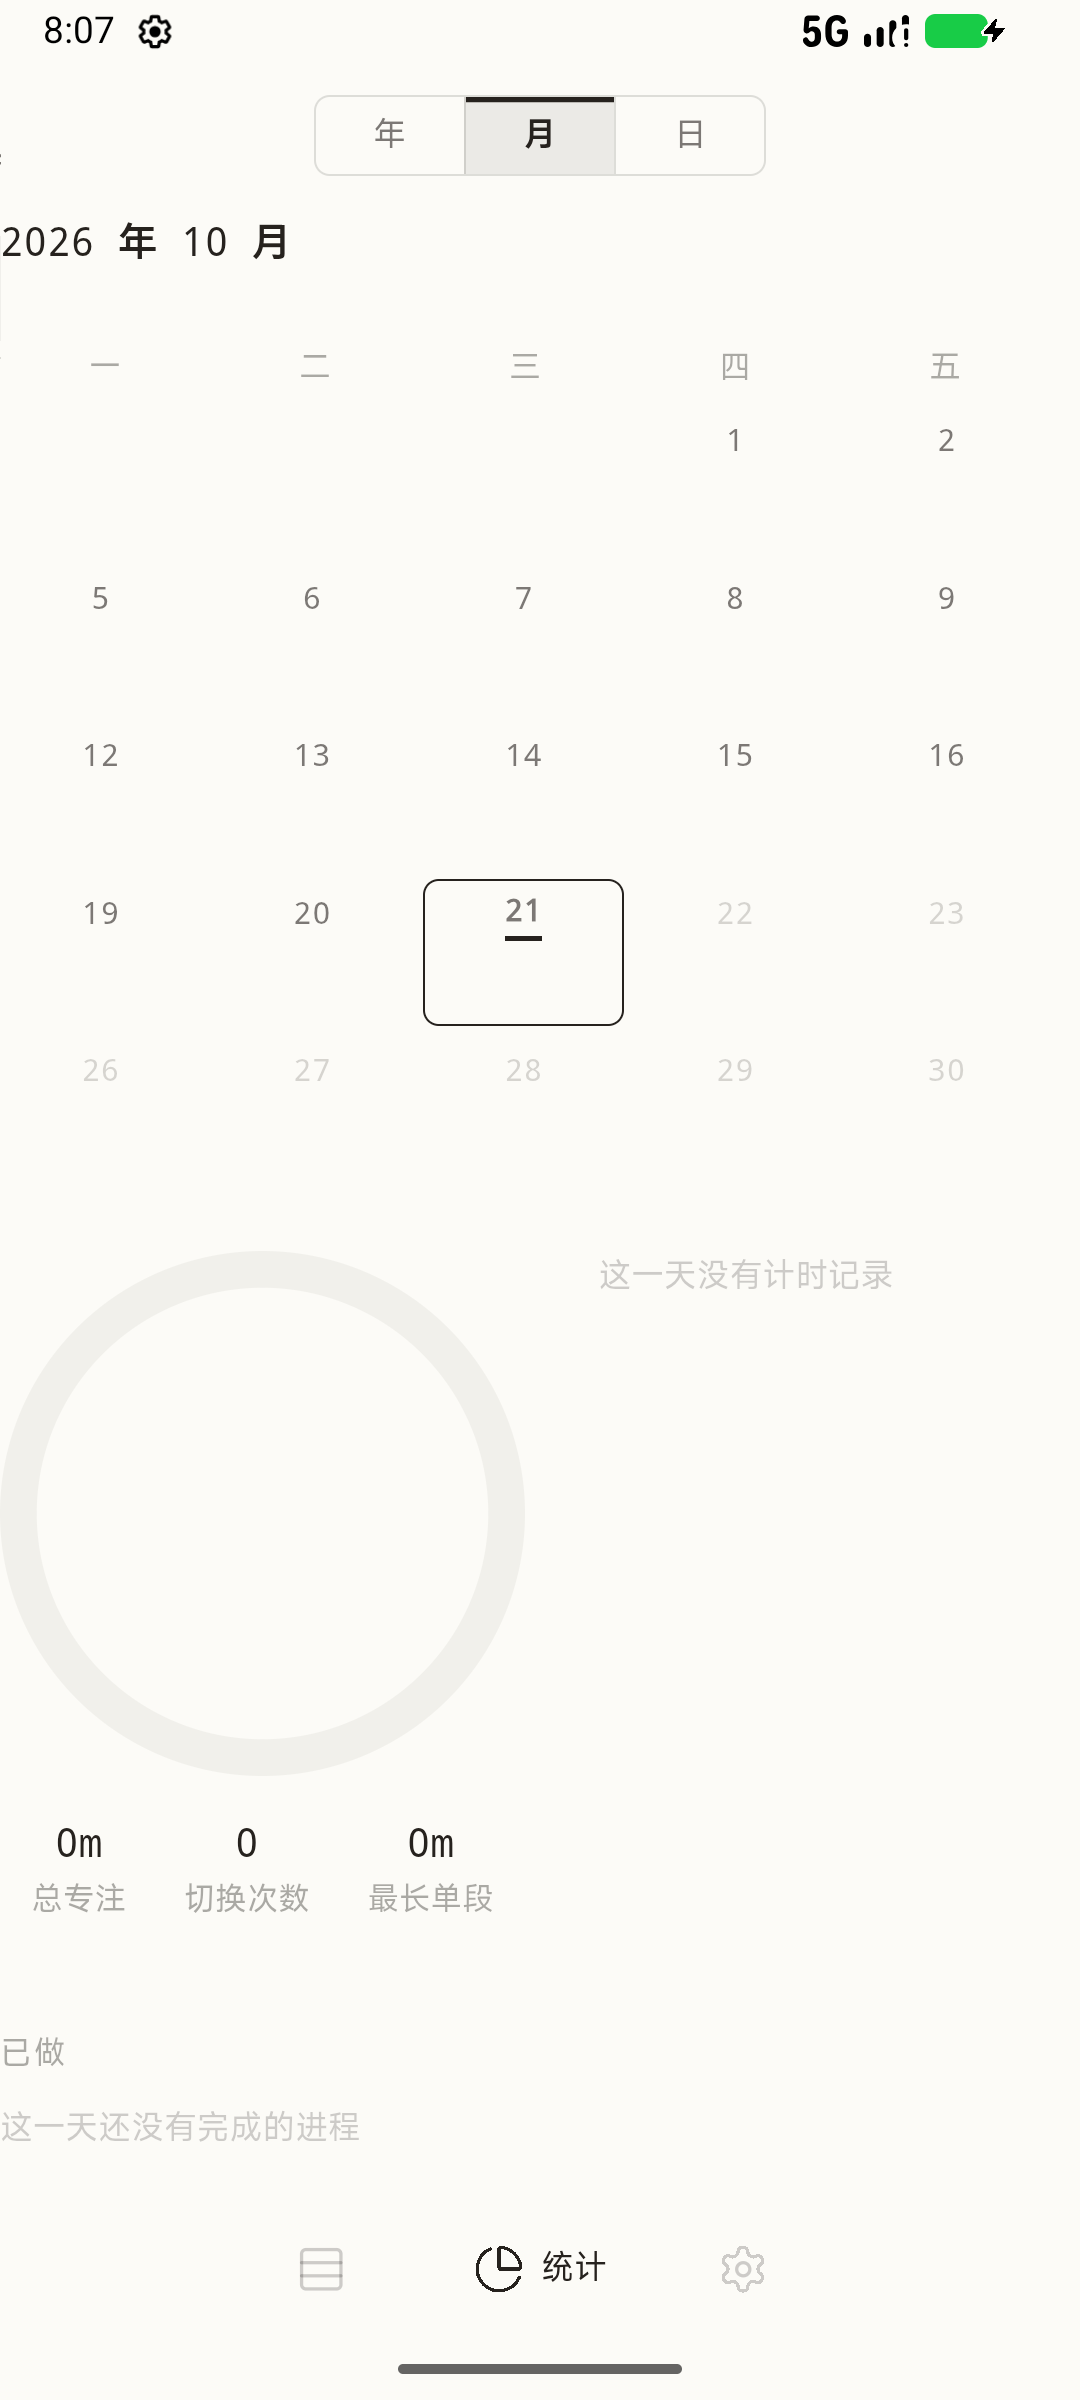
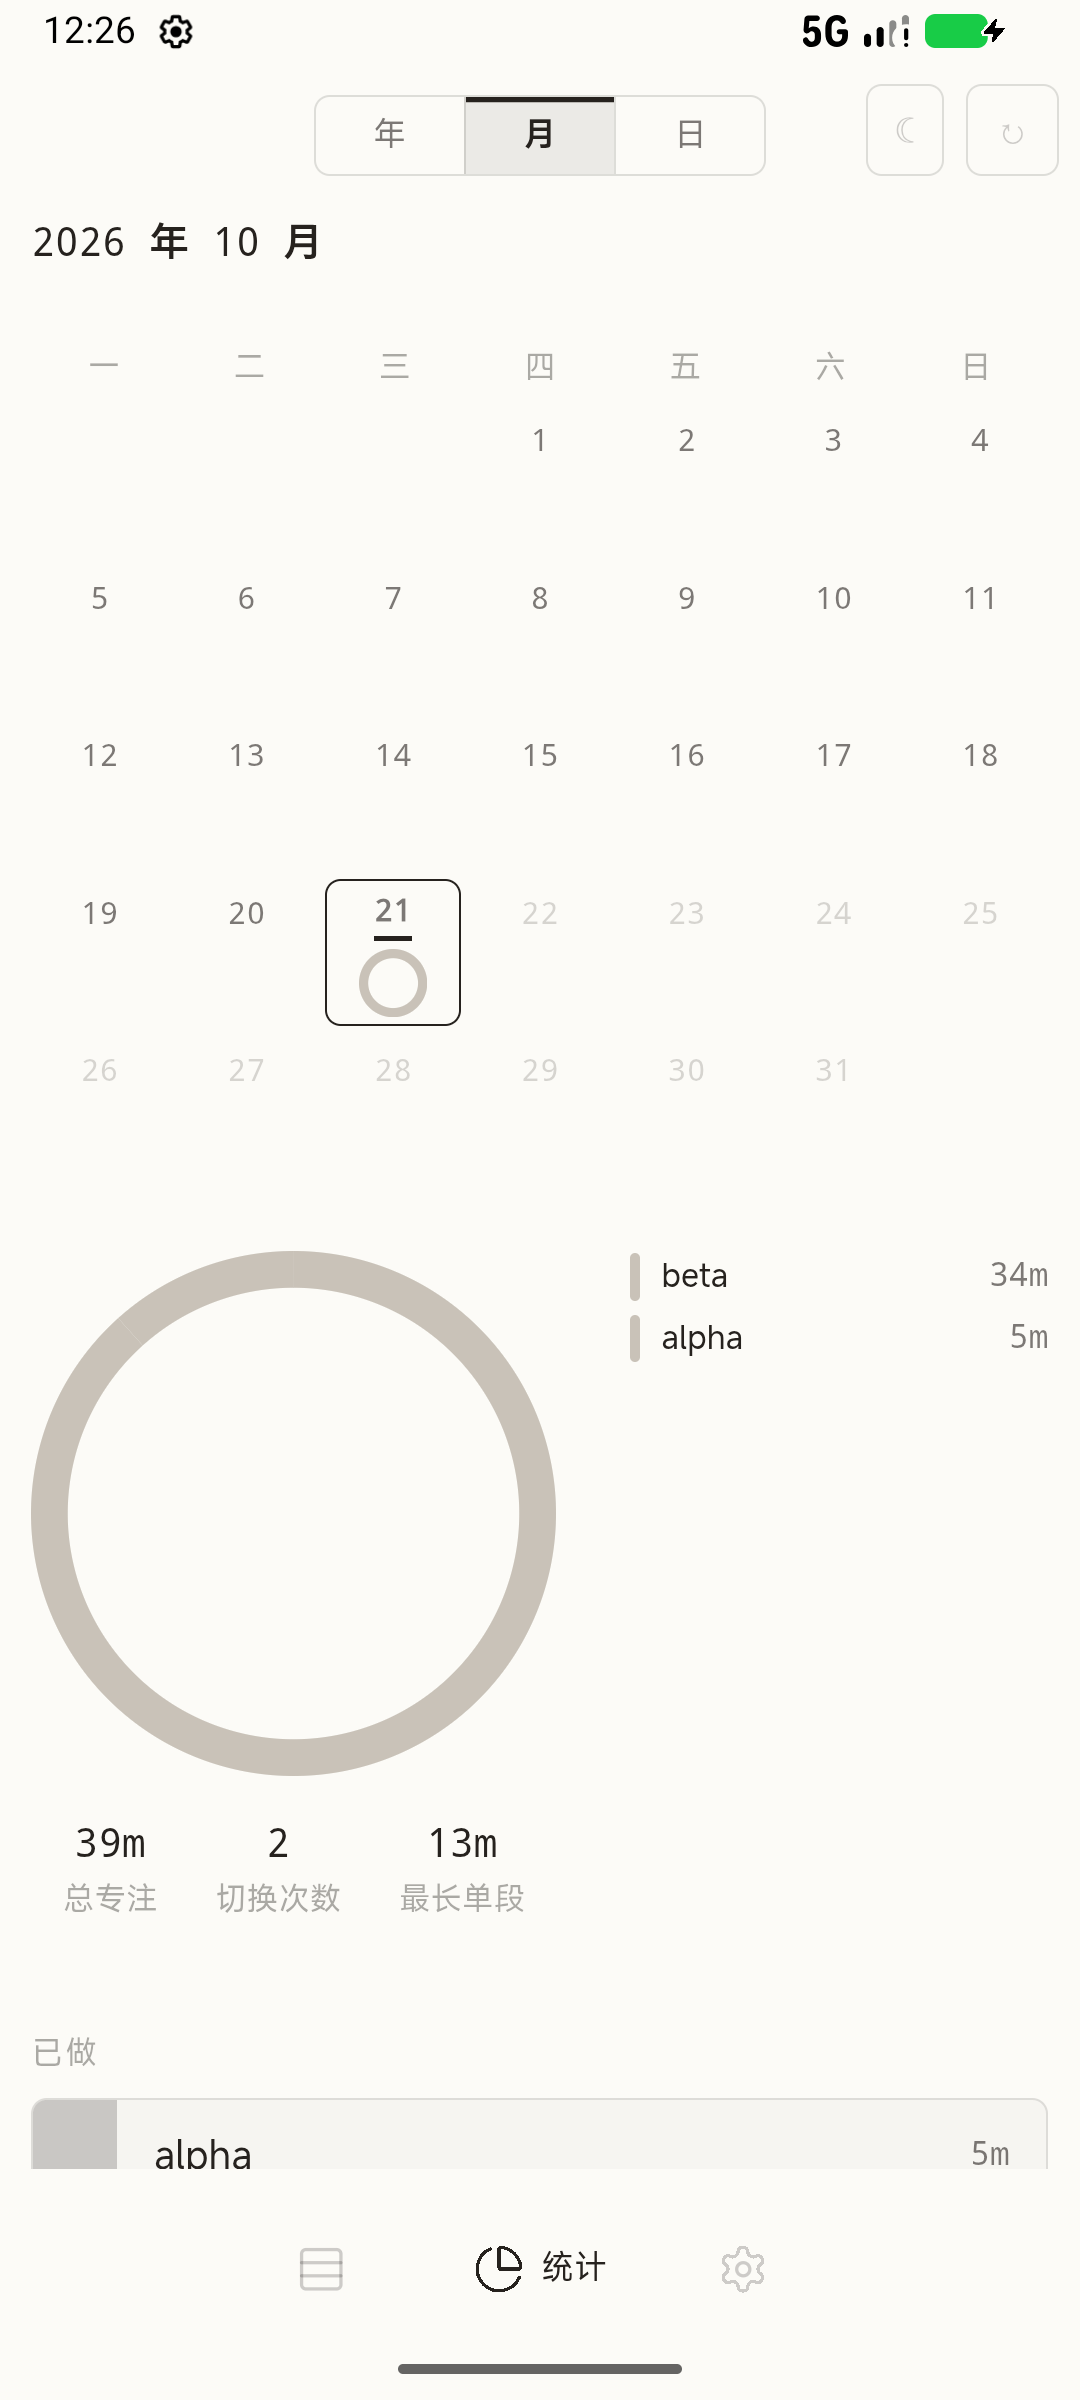
M1m：统计页 measure 移动端限宽（月历/大环/当天视图不再溢出）

diff --git a/src/styles/app.css b/src/styles/app.css
@@ -2395,3 +2395,6 @@ body:has(.lib-rail:hover) .lib-hint-arrow { animation: hint-breathe 2.4s ease-in
 
 /* 撤销 toast 抬到底栏之上（移动端） */
 .m-shell .undo-toast { bottom: calc(72px + env(safe-area-inset-bottom)); }
+
+/* 统计页 measure 移动端限宽（桌面 clamp 560px 起会溢出窄屏） */
+.m-page .stats-measure { width: 100%; max-width: 100%; }
